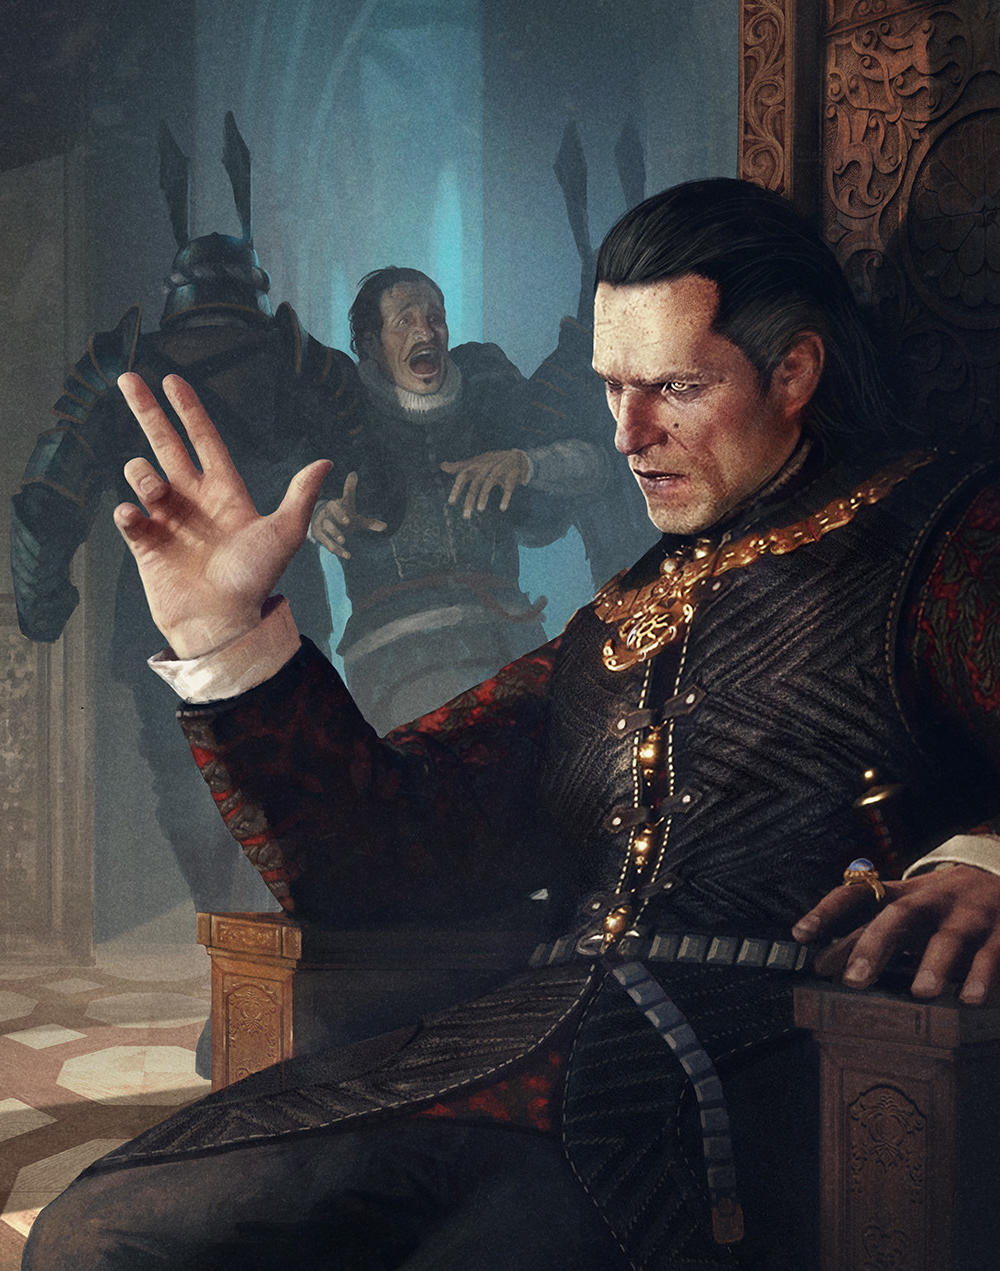
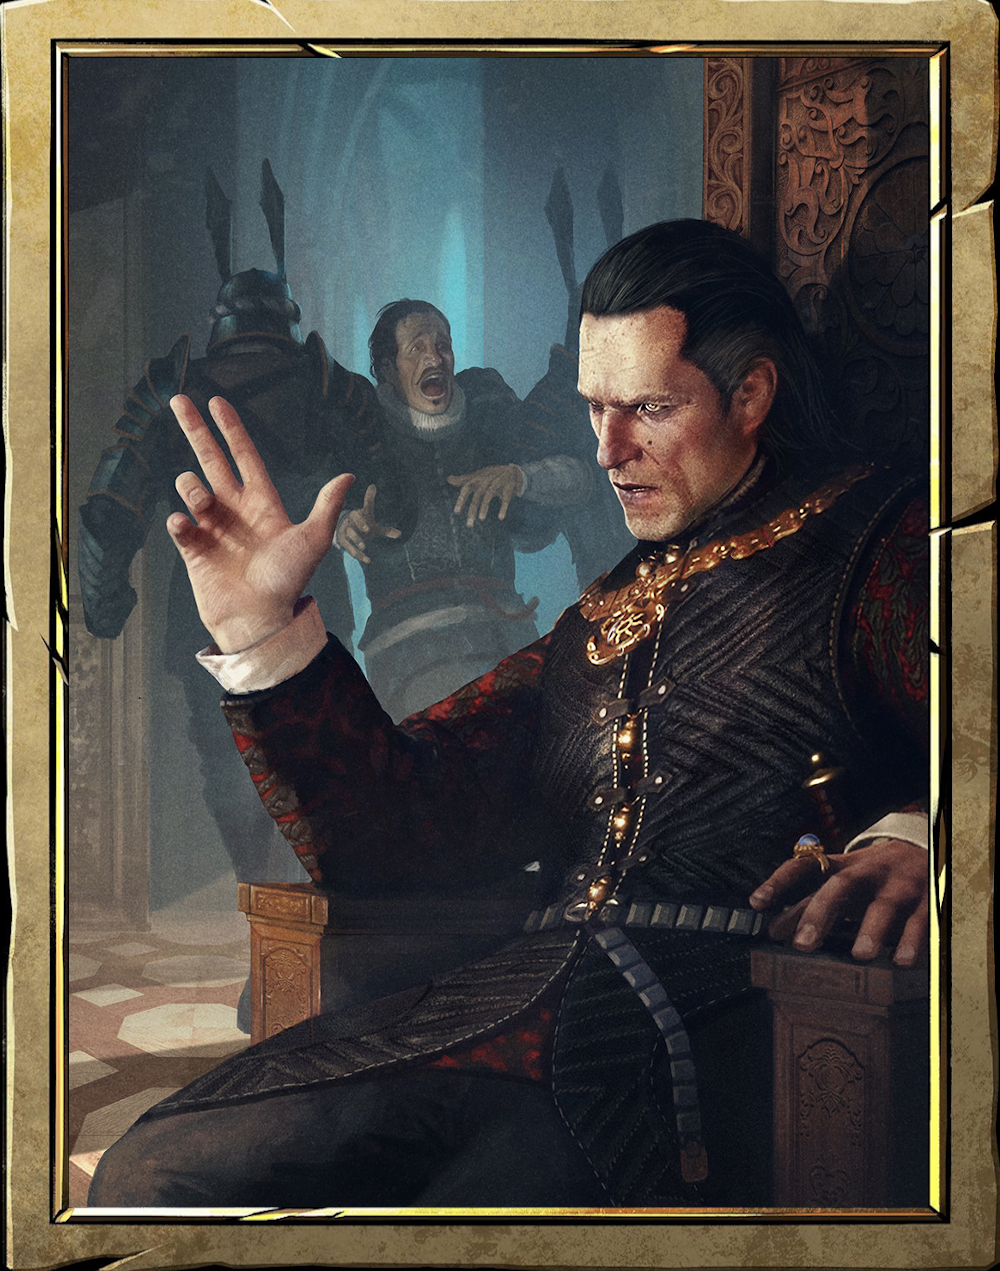
more shit

diff --git a/assets/css/style.css b/assets/css/style.css
@@ -6,17 +6,20 @@ body{
   display: flex;
   height: 100vh;
   width: 100vw;
+  background-position: center;
+  background-size: contain;
+  /* background-image: url("../images/Customized_IMG/gameboardFUCK.png"); */
   background-color: darkslategray;
 }
 #containerOfAllTheThings{
   height: 90vh;
   width: 70vw;
   margin: auto;
-  background-color: #2a2a2a;
+  /* background-color: #2a2a2a; */
 }
 header{
   display: flex;
-  background-color: seashell;
+  /* background-color: seashell; */
   height: 15%;
   justify-content: center;
   text-align: center;
@@ -30,7 +33,7 @@ header{
   height: 85%;
 }
 aside{
-  background-color: orangered;
+  /* background-color: orangered; */
   width: 20%;
 }
 .stats{
@@ -46,7 +49,7 @@ aside{
 .stats > *{
   display: inline-block;
   margin: 0;
-  background-color: firebrick;
+  /* background-color: firebrick; */
   height: 10%;
   width: 100%;
   border-radius: 5px;
@@ -84,10 +87,12 @@ main{
   background-position: center;
   backface-visibility: hidden;
   background-repeat: no-repeat;
+
 }
 .back{
   /* background-color: dodgerblue; */
-  background-image: url("../images/Customized_IMG/skellige_card_back.png");
+  background-image: url("../images/Customized_IMG/monsters_card_back.png");
+
   border-radius: 5px;
 }
 .front{
@@ -96,33 +101,7 @@ main{
 .clicked{
   transform: rotateY(180deg);
 }
-.cssLogo{
-  background-image: url("../images/css-logo.png");
-}
-.dockerLogo{
-  background-image: url("../images/docker-logo.jpg");
-}
-.gitHubLogo{
-  background-image: url("../images/gitHub-logo.png");
-}
-.htmlLogo{
-  background-image: url("../images/html-logo.png");
-}
-.jsLogo{
-  background-image: url("../images/js-logo.png");
-}
-.phpLogo{
-  background-image: url("../images/php-logo.jpeg");
-}
-.mySqlLogo{
-  background-image: url("../images/mysql-logo.jpg");
-}
-.nodeLogo{
-  background-image: url("../images/node-logo.png");
-}
-.reactLogo{
-  background-image: url("../images/react-logo.png");
-}
+
 #modalResetStats{
   background-color: coral;
   position: fixed;
@@ -154,9 +133,63 @@ main{
   border-radius: 10px;
   text-transform: uppercase;
 }
+.elemental{
+  background-image: url("../images/Customized_IMG/elemental.png");
+}
+.emhyr{
+  background-image: url("../images/Customized_IMG/emhyr.png");
+}
+.gaunterODimm{
+  background-image: url("../images/Customized_IMG/Gaunter_O_Dim.png");
+}
+.geralt{
+  background-image: url("../images/Customized_IMG/geralt.png");
+}
+.golem{
+  background-image: url("../images/Customized_IMG/golem.png");
+}
+.knightDragon{
+  background-image: url("../images/Customized_IMG/knight_dragon.png");
+}
+.radovid{
+  background-image: url("../images/Customized_IMG/radovid.png");
+}
+.redanianKnight{
+  background-image: url("../images/Customized_IMG/redanian_knight.png");
+}
+.troll{
+  background-image: url("../images/Customized_IMG/troll.png");
+}
 .hidden{
   /* display: none; */
 }
 .hiddenModal{
   display: none;
 }
+/* .cssLogo{
+  background-image: url("../images/css-logo.png");
+}
+.dockerLogo{
+  background-image: url("../images/docker-logo.jpg");
+}
+.gitHubLogo{
+  background-image: url("../images/gitHub-logo.png");
+}
+.htmlLogo{
+  background-image: url("../images/html-logo.png");
+}
+.jsLogo{
+  background-image: url("../images/js-logo.png");
+}
+.phpLogo{
+  background-image: url("../images/php-logo.jpeg");
+}
+.mySqlLogo{
+  background-image: url("../images/mysql-logo.jpg");
+}
+.nodeLogo{
+  background-image: url("../images/node-logo.png");
+}
+.reactLogo{
+  background-image: url("../images/react-logo.png");
+} */

diff --git a/assets/js/script.js b/assets/js/script.js
@@ -88,8 +88,8 @@ function handleCardClick(event){
     currentTarget.addClass('clicked');
   }
    //conditional checking if both cards have been clicked
-  if(firstCardClicked !== null && secondCardClicked !== null){
-    attempts += 1;//on any match attempt, increments attemps var
+  if(firstCardClicked && secondCardClicked){
+    attempts++;//on any match attempt, increments attemps var
     var firstCardImage = firstCardClicked.find('.front').css('background-image');//finds bg img for comp.
     var secondCardImage = secondCardClicked.find('.front').css('background-image');//finds bg img for comp.
     //checks if they are the same img
@@ -109,13 +109,13 @@ function handleCardClick(event){
           secondCardClicked = null;
           //starts card click handler again
           cardContainer.on('click', '.card', handleCardClick);
-          }, 1500);
+          }, 750);
       }else{ //resets clicked card variables on success or failure
         //resets clickedCard vars
         firstCardClicked = null;
         secondCardClicked = null;
         //on successful match, increments match var
-        matches += 1;
+        matches++;
         }
     //updates Stats Div
     displayStats();
